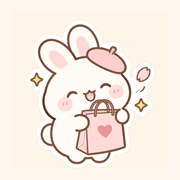
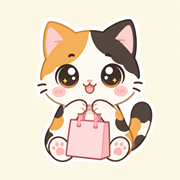
마스코트를 삼색 고양이로, 예산 넘으면 눈 돌아가는 고양이
설정에 쇼핑 예산(엔)을 두고, 산 돈이 80%를 넘으면 비틀, 100%를 넘으면 눈 돌아간 그림과 문구를 보여 준다. 예산이 없으면 넉넉한 예상 합계를 기준으로 한다.

diff --git a/css/app.css b/css/app.css
@@ -298,4 +298,11 @@ details.more[open]{display:grid;gap:12px;padding-bottom:12px}
 }
 @media (min-width:1024px){ .grid{grid-template-columns:repeat(4,1fr)} .big-list{grid-template-columns:repeat(3,1fr)} .bigcard{grid-template-columns:1fr;grid-template-rows:190px auto} .report{grid-template-columns:1fr 1fr 1fr} }
 @media (min-width:1240px){ .grid{grid-template-columns:repeat(5,1fr)} }
-@media (prefers-reduced-motion:reduce){*{transition:none!important}}
+/* 쇼핑 많이 하면 고양이가 비틀(80%)·눈 돌아감(100%) */
+.mascot.wobble,.logo img.wobble,.store-head img.wobble{animation:wob 1.4s ease-in-out infinite}
+.mascot.dizzy,.logo img.dizzy,.store-head img.dizzy{animation:dizzy 1.8s ease-in-out infinite}
+@keyframes wob{0%,100%{transform:rotate(-6deg)}50%{transform:rotate(6deg)}}
+@keyframes dizzy{0%,100%{transform:rotate(0) scale(1)}25%{transform:rotate(-14deg) scale(1.06)}75%{transform:rotate(14deg) scale(1.06)}}
+.mood{position:relative;margin-top:8px;padding:6px 10px;border-radius:12px;background:#FFF1CC;color:#6B4A00;font-family:var(--cute);font-size:15px}
+.mood.dizzy{background:#FFE0EA;color:var(--pink-deep)}
+@media (prefers-reduced-motion:reduce){*{transition:none!important;animation:none!important}}

diff --git a/sw.js b/sw.js
@@ -1,10 +1,10 @@
 // 오프라인용: 앱 파일을 캐시에 두고, 인터넷이 없으면 캐시에서 연다.
 // 상품·사진은 IndexedDB에 있어서 여기서 따로 캐시하지 않는다.
-const VERSION = 'v3';
+const VERSION = 'v4';
 const CACHE = 'japan-shopping-' + VERSION;
 const FILES = [
   './', 'index.html', 'css/app.css', 'js/app.js', 'js/db.js', 'js/photo.js', 'js/sync.js',
-  'data/products.json', 'images/mascot-320.png', 'fonts/Jua-Regular.ttf',
+  'data/products.json', 'images/mascot-320.png', 'images/mascot-dizzy-320.png', 'fonts/Jua-Regular.ttf',
   'icons/icon-192.png', 'icons/icon-512.png', 'icons/icon-180.png', 'manifest.webmanifest',
 ];
 

diff --git a/CLAUDE.md b/CLAUDE.md
@@ -10,7 +10,7 @@
 - `js/sync.js` 구글 시트 동기화 클라이언트(앱스 스크립트 웹 앱, text/plain POST). updatedAt 늦은 쪽이 이김, 삭제는 deleted 표시
 - `apps-script/Code.gs` 시트에 붙는 앱스 스크립트(시트 탭: 상품/사진/설정, 사진 파일은 Drive «일본쇼핑 사진»). onEdit가 시트 직접 수정 시 updatedAt 갱신
 - `data/products.json` 처음 넣는 상품(X 북마크에서 고른 32개). 새 id를 더하면 다음에 열 때 그것만 추가됨
-- `sw.js` 서비스 워커(앱 파일 캐시, 네트워크 먼저), `manifest.webmanifest`, `icons/`(마스코트), `images/mascot-320.png`(힉스필드로 만든 토끼), `fonts/Jua-Regular.ttf`(OFL)
+- `sw.js` 서비스 워커(앱 파일 캐시, 네트워크 먼저), `manifest.webmanifest`, `icons/`(마스코트), `images/mascot-320.png`(힉스필드로 만든 삼색 고양이, `mascot-dizzy-320.png`는 예산 넘었을 때 눈 돌아간 고양이), `fonts/Jua-Regular.ttf`(OFL)
 - `preview.html` 처음 디자인 시안(참고용)
 
 ## 규칙
